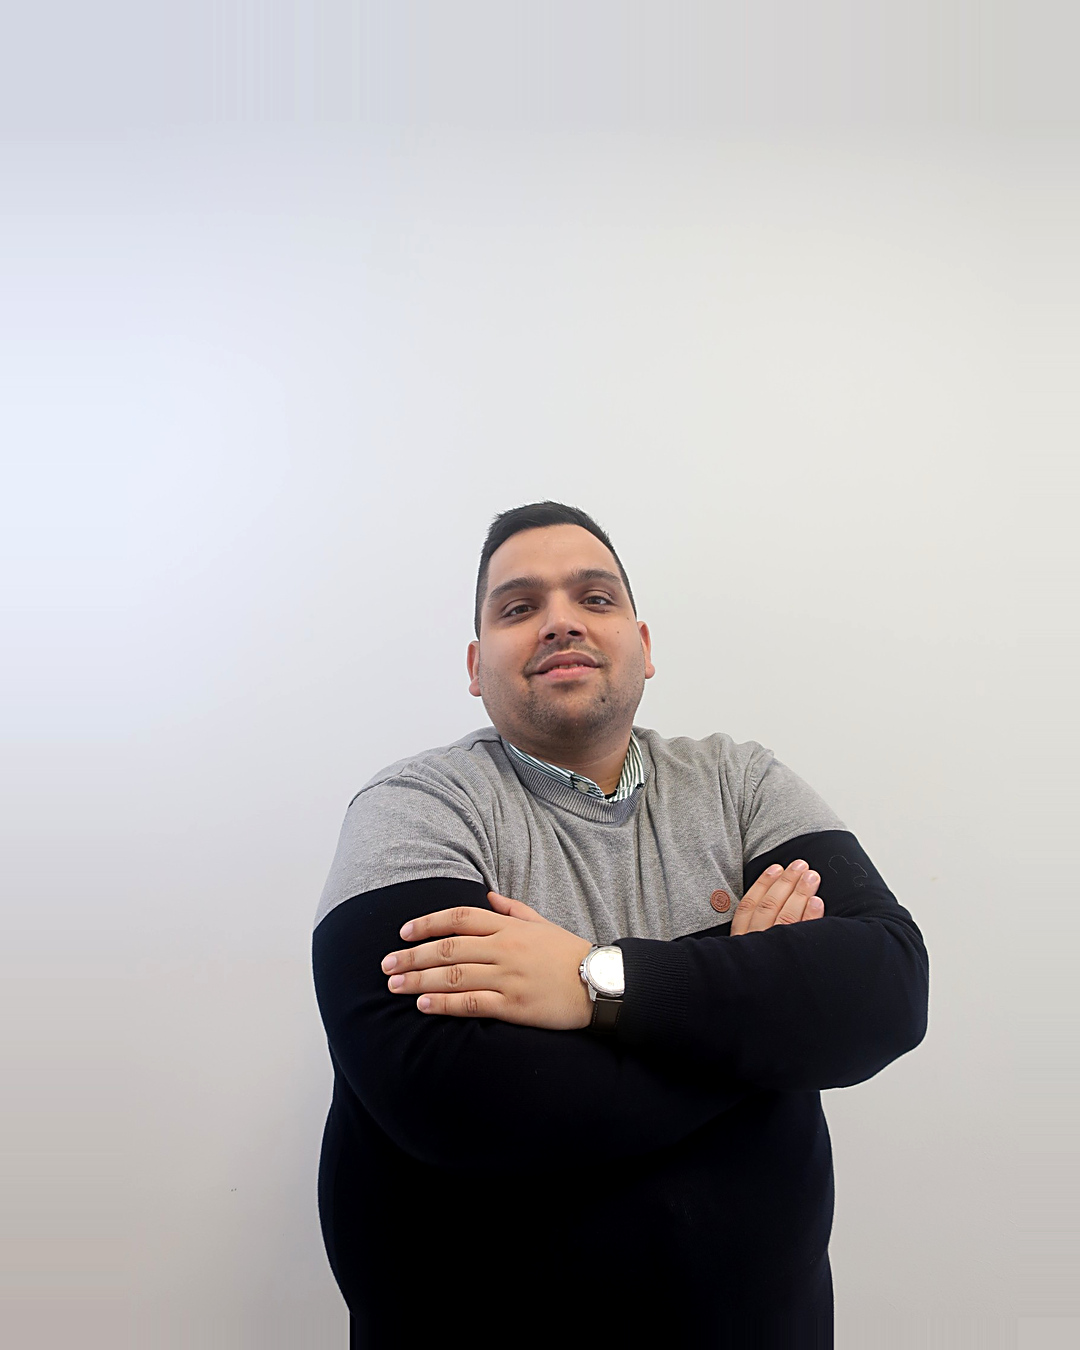
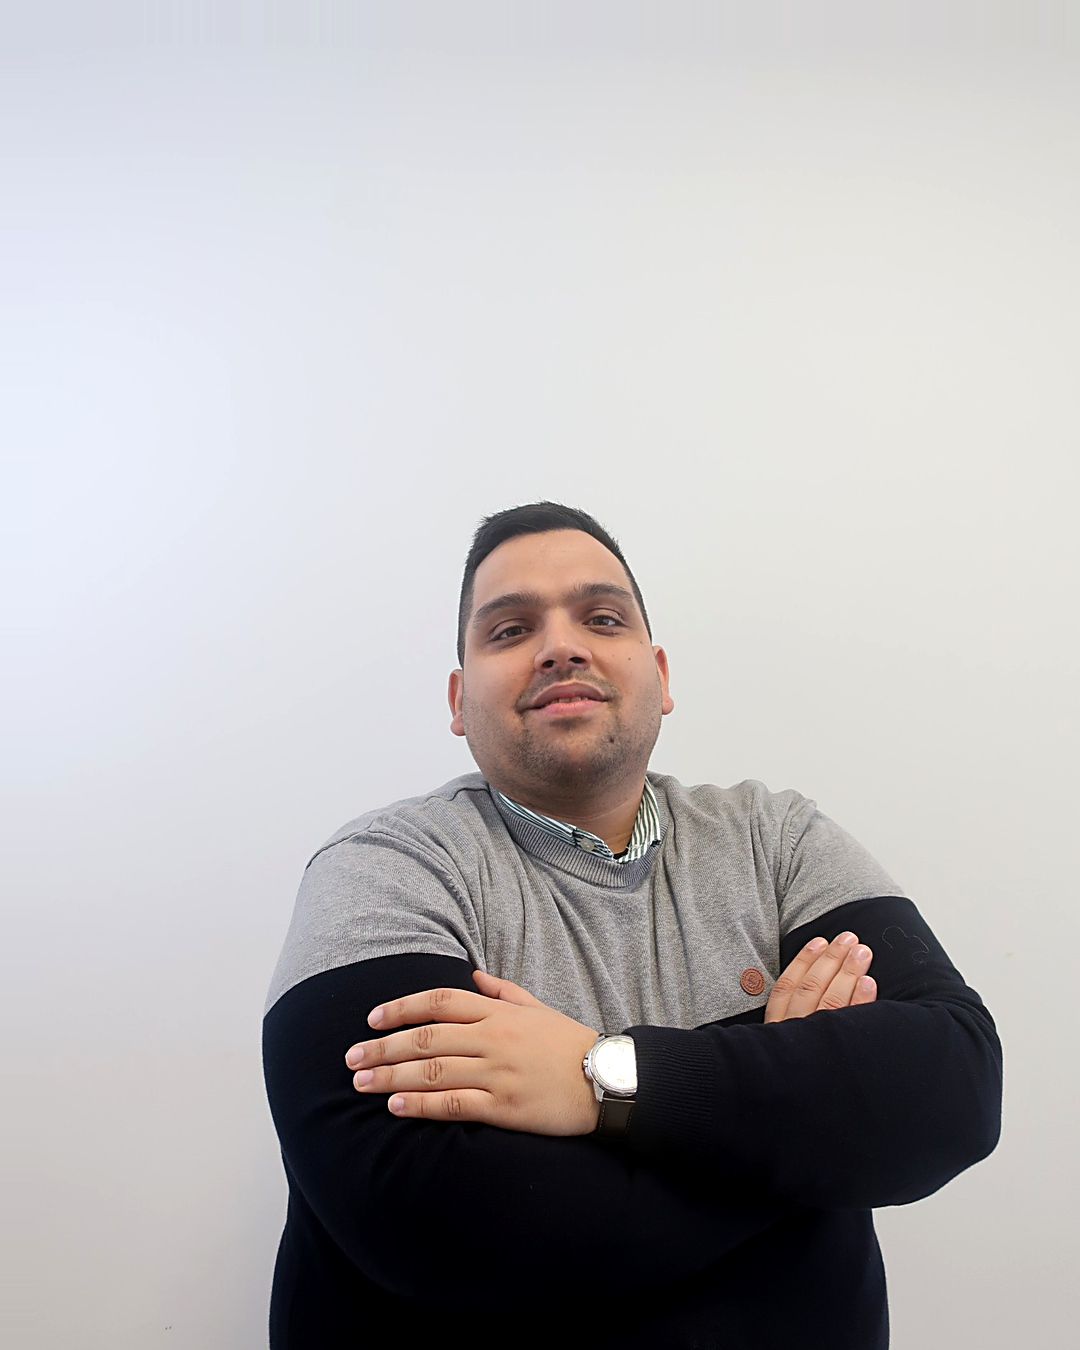
Aniversário do João (braços cruzados): foto maior, braços cortados
Claude-Session: https://claude.ai/code/session_0173GtUhSHhHFQaxLRUGv3dG

Changed region(s): [[0.2444, 0.3733, 0.9472, 1.0]]

diff --git a/aniversario-joao/README.md b/aniversario-joao/README.md
@@ -7,4 +7,4 @@ Para outra pessoa da equipa: trocar `joao-pessoa.png` e `joao-glow.png` (recorte
 - `post-v2/` — versão alternativa (inspirada num anúncio de recrutamento): painel carmim (#B00E22) sobre a foto, janela recortada irregular (com degrau para os vistos) e a cabeça a sair da janela, «PARABÉNS» como etiqueta, o nome gigante em duas linhas e o cargo por baixo, logótipo numa etiqueta sobre a foto e um texto curto no degrau.
 - `post-v2-preto/` — a mesma versão com a moldura a preto (#0A0305).
 - `post-v2-cor/` — a versão de moldura preta com a fotografia a cores.
-- `post-v2-cor-bracos/` — versão a cores com a foto de braços cruzados, sem tratamento de imagem.
+- `post-v2-cor-bracos/` — versão a cores com a foto de braços cruzados (cortados pela caixa de texto), sem tratamento de imagem.
